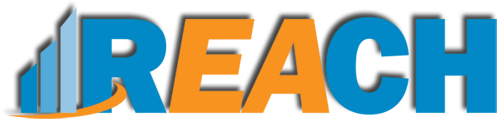
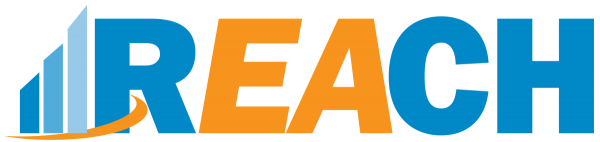
playing with styling
- mobile header
- reach-logo at non-phone size bigger.
- and colors.

diff --git a/oshin_child/sass/partials/_media.scss b/oshin_child/sass/partials/_media.scss
@@ -1,6 +1,17 @@
 /* **** media **** */
+@media only screen and (max-width: 960px) {
+}
+@media only screen and (min-width: 768px) {
+	// anything bigger than tablet (i.e. desktop)
+	h1.reach-logo:before,
+	h1 span.reach-logo {
+		content: url(images/reach-scale.png);
+	}
+}
 
+/***  tablet ***/
 @media only screen and (max-width: 767px) {
+	$mobile-header-height: 80px;
 	.reach-phone-cols { // dont make social icons rows 100% at here
 		.textwidget {
 			.one-third {
@@ -9,6 +20,7 @@
 			}
 		}
 	}
+	// the hamberger icon & nav menu
 	#sb-slidebar-content {
 		#slidebar-menu {
 			.mobile-sub-menu-controller {
@@ -20,23 +32,33 @@
 	#main-wrapper {
 		#header {
 			.logo {
-				padding-top: 5px;
+				padding-top: 8px;
+				img {
+					width: 60px;
+				}
 			}
 			#header-controls-right {
-				line-height: 120px;
+				line-height: $mobile-header-height;
 			}
 		}
 		#main {
-			background-color: $reach-orange;
+			background-color: $reach-pale-blue;
 		}
 		#hero-section {
-			top: 120px;
+			top: $mobile-header-height; // make some space
 		}
 		#content {
-			padding-top: 120px;
+			padding-top: $mobile-header-height; // and push content down
 			.be-text-inner {
 				width: 92%!important;
 			}
 		}
 	}
+}
+@media only screen and (max-width: 320px){
+
+}
+
+@media only screen and (min-width: 480px) and (max-width: 767px) {
+   
 }

diff --git a/oshin_child/css/style.css b/oshin_child/css/style.css
@@ -58,6 +58,11 @@ h1.reach-logo {
 
 /* *** keep this at the end *** */
 /* **** media **** */
+@media only screen and (min-width: 768px) {
+  h1.reach-logo:before,
+  h1 span.reach-logo {
+    content: url(images/reach-scale.png); } }
+/***  tablet ***/
 @media only screen and (max-width: 767px) {
   .reach-phone-cols .textwidget .one-third {
     width: 30%;
@@ -67,14 +72,16 @@ h1.reach-logo {
     font-size: 22px; }
 
   #main-wrapper #header .logo {
-    padding-top: 5px; }
+    padding-top: 8px; }
+    #main-wrapper #header .logo img {
+      width: 60px; }
   #main-wrapper #header #header-controls-right {
-    line-height: 120px; }
+    line-height: 80px; }
   #main-wrapper #main {
-    background-color: #ffa73d; }
+    background-color: #ebf0f3; }
   #main-wrapper #hero-section {
-    top: 120px; }
+    top: 80px; }
   #main-wrapper #content {
-    padding-top: 120px; }
+    padding-top: 80px; }
     #main-wrapper #content .be-text-inner {
       width: 92% !important; } }

diff --git a/oshin_child/sass/partials/_colors.scss b/oshin_child/sass/partials/_colors.scss
@@ -4,6 +4,7 @@ $reach-blue: #0088c7;
 $menu-active: #0088c7;
 $menu-font: #232323;
 $reach-orange: #ffa73d;
+$reach-pale-blue: #ebf0f3;
 // Background colors: 
 
 // special colors

diff --git a/oshin_child/sass/style.scss b/oshin_child/sass/style.scss
@@ -62,5 +62,6 @@ h1.reach-logo {
     content: url(images/reach-favicon.png);
     padding-right: 3px;
 }
+
 /* *** keep this at the end *** */
 @import "partials/media";
